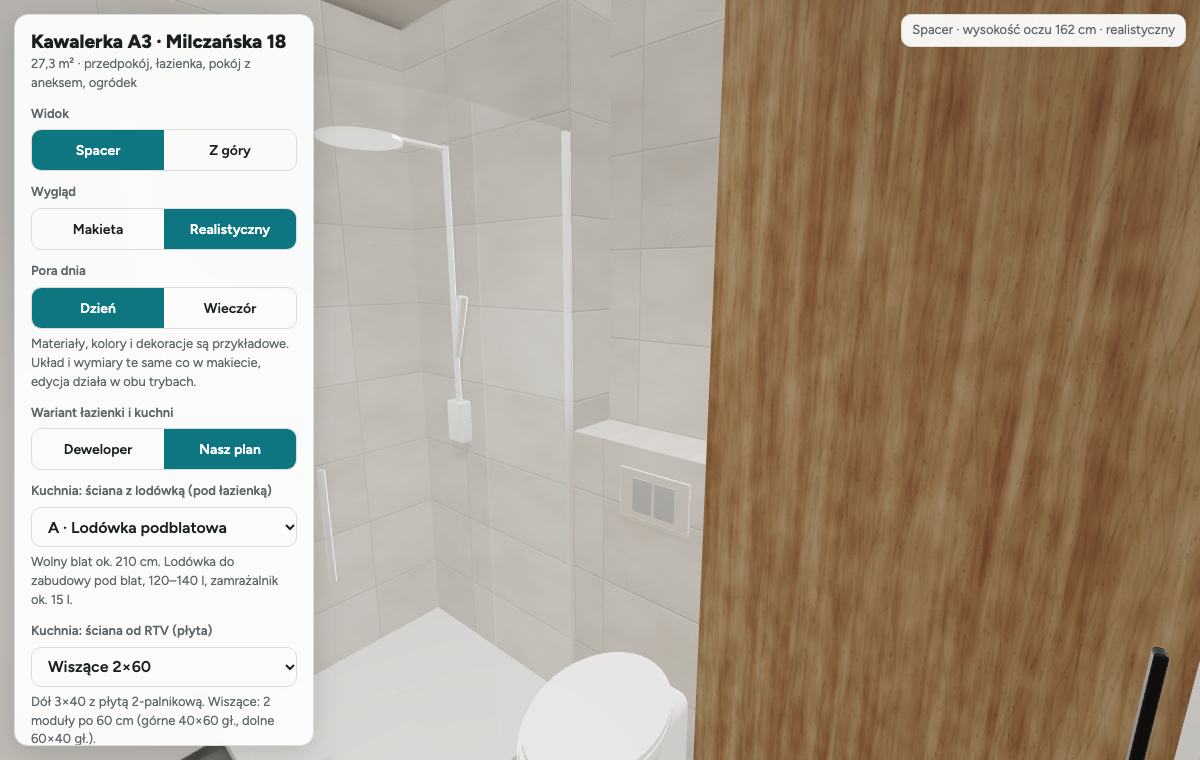
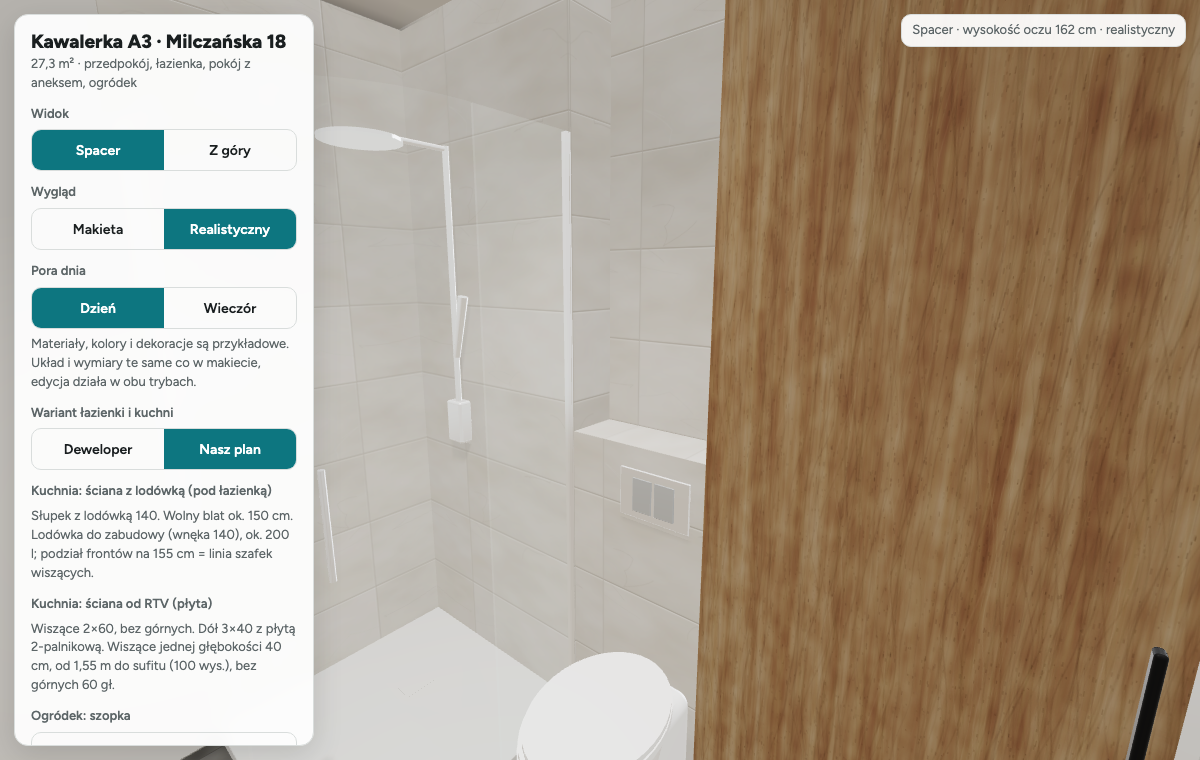
Wylaczenie zbędnych opcji

Changed region(s): [[0.0308, 0.6658, 0.2467, 0.9987]]

diff --git a/index.html b/index.html
@@ -176,23 +176,13 @@ const UPX=(id,z0,z1,mods,o,top=true)=>{if(top){R(id+'g','Szafki wiszące górne 
  if(top)R(id+'d','Szafki wiszące dolne (60 wys., 40 gł.)','upper',3.85,4.25,z0,z1,.6,COL.oak,'nasz');
  else R(id+'d','Szafki wiszące do sufitu (100 wys., 40 gł.)','upper',3.85,4.25,z0,z1,H-UY,COL.oak,'nasz'); // jedna głębokość 40 od 1,55 do sufitu
  RX(Object.assign({y:UY,mods},o))};
-// a) lodówka podblatowa: jeden ciąg blatu pod łazienką
-R('nBlatP','Blat: lodówka podblatowa + zmywarka + zlew','sinkc',1.9,3.65,2.07,2.67,.9,COL.oak,'nasz');RX({fr:'pod',mods:[.6,.6,.55],sink:[1.25,1.7]});
-UPZ('nGP',1.9,3.65,[.6,.6,.55],{fr:'pod'});
-// b) lodówka wolnostojąca 60×145
-R('nLod','Lodówka wolnostojąca 60×145','fridge',1.9,2.5,2.07,2.69,1.45,COL.white,'nasz');RX({fr:'wolna'});
-R('nBlat1','Blat: zmywarka + zlew','sinkc',2.52,3.65,2.07,2.67,.9,COL.oak,'nasz');RX({fr:'wolna',mods:[.6,.53]});
-UPZ('nGW',1.9,3.65,[.62,.6,.53],{fr:'wolna'});
-// c) słupek od wejścia: lodówka do zabudowy (wnęka 140) + szafka do sufitu; podział frontów na wys. UY = linia dołu szafek wiszących
+// ściana z lodówką (decyzja 22.11.2026: słupek; wersje podblatowa i wolnostojąca usunięte): słupek od wejścia: lodówka do zabudowy (wnęka 140) + szafka do sufitu; podział frontów na wys. UY = linia dołu szafek wiszących
 R('nSlup','Słupek: lodówka do zabudowy 140 + szafka','slupek',1.9,2.5,2.07,2.67,H,COL.oak,'nasz');RX({fr:'slupek',split:[.1,UY,UT]}); // podziały w liniach szafek wiszących
 R('nBlatS','Blat: zmywarka + zlew','sinkc',2.5,3.65,2.07,2.67,.9,COL.oak,'nasz');RX({fr:'slupek',mods:[.6,.55],sink:[.65,1.1]});
 UPZ('nGS',2.5,3.65,[.6,.55],{fr:'slupek'});
-// ściana od RTV: dolne 3 moduły po 40 cm z płytą 2-palnikową (wspólne), wiszące wg wersji
+// ściana od RTV: dolne 3 moduły po 40 cm z płytą 2-palnikową, wiszące 2×60 bez górnych (decyzja 22.11.2026)
 R('nBlat2','Blat z płytą 2-palnikową (3×40)','cook',3.65,4.25,2.76,3.96,.9,COL.oak,'nasz');RX({hob:2,mods:[.4,.4,.4]});
-UPX('nR60',2.76,3.96,[.6,.6],{rtv:'w2x60'});
-UPX('nR40',2.76,3.96,[.4,.4,.4],{rtv:'w3x40'});
 UPX('nR60b',2.76,3.96,[.6,.6],{rtv:'w2x60b'},false); // bez górnych 40×60 – szafki 40 gł. od 1,55 do sufitu
-UPX('nR40b',2.76,3.96,[.4,.4,.4],{rtv:'w3x40b'},false);
 // pokój
 R('stol','Stół','table',0,.8,2.83,3.63,.75,COL.wood);
 R('kr1','Krzesło','chair',.19,.59,2.35,2.79,.85,COL.dark);
@@ -238,14 +228,9 @@ R('smPolkaS','Półka nad wejściem przy płocie (gł. 25)','rack',4.04,4.29,7.8
 // wersje kuchni „Nasz plan” – osobno dla każdej ściany (listy rozwijane).
 // Nowa wersja = nowy wpis + meble z polem fr:'<id>' (ściana z lodówką) albo rtv:'<id>' (ściana od RTV)
 const FRIDGE_WALL=[
- {id:'pod',name:'A · Lodówka podblatowa',desc:'Wolny blat ok. 210 cm. Lodówka do zabudowy pod blat, 120–140 l, zamrażalnik ok. 15 l.'},
- {id:'wolna',name:'B · Wolnostojąca 60×145',desc:'Wolny blat ok. 150 cm. Ok. 200 l. Biała bryła przerywa linię frontów.'},
- {id:'slupek',name:'C · Słupek z lodówką 140',desc:'Wolny blat ok. 150 cm. Lodówka do zabudowy (wnęka 140), ok. 200 l; podział frontów na 155 cm = linia szafek wiszących.'}];
+ {id:'slupek',name:'Słupek z lodówką 140',desc:'Wolny blat ok. 150 cm. Lodówka do zabudowy (wnęka 140), ok. 200 l; podział frontów na 155 cm = linia szafek wiszących.'}];
 const RTV_WALL=[
- {id:'w2x60',name:'Wiszące 2×60',desc:'Dół 3×40 z płytą 2-palnikową. Wiszące: 2 moduły po 60 cm (górne 40×60 gł., dolne 60×40 gł.).'},
- {id:'w3x40',name:'Wiszące 3×40',desc:'Dół 3×40 z płytą 2-palnikową. Wiszące: 3 moduły po 40 cm, fronty w osi z dolnymi szafkami.'},
- {id:'w2x60b',name:'Wiszące 2×60, bez górnych',desc:'Dół 3×40 z płytą 2-palnikową. Wiszące jednej głębokości 40 cm, od 1,55 m do sufitu (100 wys.), bez górnych 60 gł.'},
- {id:'w3x40b',name:'Wiszące 3×40, bez górnych',desc:'Dół 3×40 z płytą 2-palnikową. Wiszące jednej głębokości 40 cm, od 1,55 m do sufitu (100 wys.), 3 moduły po 40 cm.'}];
+ {id:'w2x60b',name:'Wiszące 2×60, bez górnych',desc:'Dół 3×40 z płytą 2-palnikową. Wiszące jednej głębokości 40 cm, od 1,55 m do sufitu (100 wys.), bez górnych 60 gł.'}];
 const SHEDS=[
  {id:'srodek',name:'B · Wejście na środku, drzwi przesuwne',desc:'Drzwi przesuwne 80 cm pośrodku, wchodzisz do środka (przejście 80×73). Po prawej koła pod blatem 73×72 i półki, po lewej regał 35 cm i narzędzia przy płocie.'},
  {id:'boki',name:'A · Dwoje drzwi dwuskrzydłowych',desc:'Bez wchodzenia, wszystko od frontu. Przy budynku narzędzia + regał 70×60, od ogrodu blat 118×73 z kołami pod spodem.'}];
@@ -256,7 +241,7 @@ const shedSel=document.getElementById('shed');shedSel.innerHTML=SHEDS.map(k=>`<o
 const rtvSel=document.getElementById('rtv');rtvSel.innerHTML=RTV_WALL.map(k=>`<option value="${k.id}">${k.name}</option>`).join('');
 addSel.innerHTML+=CATALOG.map((c,i)=>`<option value="${i}">${c[0]}</option>`).join('');
 
-let state={bath:'nasz',fridge:'pod',rtv:'w2x60',shed:'srodek',items:JSON.parse(JSON.stringify(DEFAULT))};
+let state={bath:'nasz',fridge:'slupek',rtv:'w2x60b',shed:'srodek',items:JSON.parse(JSON.stringify(DEFAULT))};
 const KEY='a3-milczanska-uklad-v10';
 try{let s=JSON.parse(localStorage.getItem(KEY));
  if(!s){s=JSON.parse(localStorage.getItem('a3-milczanska-uklad-v9'))||JSON.parse(localStorage.getItem('a3-milczanska-uklad-v8'))||JSON.parse(localStorage.getItem('a3-milczanska-uklad-v7'))||JSON.parse(localStorage.getItem('a3-milczanska-uklad-v6'))||JSON.parse(localStorage.getItem('a3-milczanska-uklad-v5'))||JSON.parse(localStorage.getItem('a3-milczanska-uklad-v4'))||JSON.parse(localStorage.getItem('a3-milczanska-uklad-v3'))||JSON.parse(localStorage.getItem('a3-milczanska-uklad-v2'));
@@ -268,7 +253,8 @@ try{let s=JSON.parse(localStorage.getItem(KEY));
   if(s&&s.items)s.items=s.items.filter(it=>it.v!=='nasz').concat(JSON.parse(JSON.stringify(DEFAULT.filter(d=>d.v==='nasz'))))}
  if(s&&s.items)s.items=s.items.filter(it=>!/^sz(opa|Kola|Blat|Polka|Regal|Narz)$/.test(it.id)); // pierwsza wersja szopki (160×200 po prawej) – zastąpiona
  if(s&&s.items){DEFAULT.forEach(d=>{if(!s.items.some(i=>i.id===d.id))s.items.push(JSON.parse(JSON.stringify(d)))}); // nowe meble z DEFAULT (np. nowa wersja kuchni)
-  if(!FRIDGE_WALL.some(k=>k.id===s.fridge))s.fridge='pod';if(!RTV_WALL.some(k=>k.id===s.rtv))s.rtv='w2x60';if(!SHEDS.some(k=>k.id===s.shed))s.shed='srodek';
+  if(!FRIDGE_WALL.some(k=>k.id===s.fridge))s.fridge='slupek';if(!RTV_WALL.some(k=>k.id===s.rtv))s.rtv='w2x60b';if(!SHEDS.some(k=>k.id===s.shed))s.shed='srodek';
+  s.items=s.items.filter(it=>(!it.fr||FRIDGE_WALL.some(k=>k.id===it.fr))&&(!it.rtv||RTV_WALL.some(k=>k.id===it.rtv))); // usunięte wersje kuchni
   s.items.forEach(it=>{const d=DEFAULT.find(x=>x.id===it.id);if(d&&d.shed)it.shed=d.shed});state=s}}catch(e){}
 const save=()=>{try{localStorage.setItem(KEY,JSON.stringify(state))}catch(e){}};
 
@@ -337,7 +323,7 @@ const edgeMat=new THREE.LineBasicMaterial({color:0x1c1916});
 const glassEdgeMat=new THREE.LineBasicMaterial({color:0x6d7f86});
 function addEdges(g){const ms=[];g.traverse(o=>{if(o.isMesh)ms.push(o)});ms.forEach(o=>{
  const l=new THREE.LineSegments(new THREE.EdgesGeometry(o.geometry,30),o.material===mat.glass?glassEdgeMat:edgeMat);l.raycast=()=>{};o.add(l)})}
-const visible=it=>!it.hidden&&(it.v==='all'||it.v===state.bath)&&(!it.fr||it.fr===(state.fridge||'pod'))&&(!it.rtv||it.rtv===(state.rtv||'w2x60'))&&(!it.shed||it.shed===(state.shed||'srodek'));
+const visible=it=>!it.hidden&&(it.v==='all'||it.v===state.bath)&&(!it.fr||it.fr===(state.fridge||'slupek'))&&(!it.rtv||it.rtv===(state.rtv||'w2x60b'))&&(!it.shed||it.shed===(state.shed||'srodek'));
 function rebuild(){
  while(furn.children.length){const c=furn.children[0];furn.remove(c);c.traverse(o=>{if(o.geometry)o.geometry.dispose();if(typeof o.getRenderTarget==='function')o.getRenderTarget().dispose()})}
  const real=style==='real'&&REAL;
@@ -880,8 +866,8 @@ function setMode(m){mode=m;document.querySelectorAll('#mode button').forEach(b=>
 document.querySelectorAll('#mode button').forEach(b=>b.onclick=()=>setMode(b.dataset.m));
 document.querySelectorAll('#bath button').forEach(b=>b.onclick=()=>{state.bath=b.dataset.v;markBath();if(selId&&!visible(selItem()))selId=null;rebuild()});
 function markBath(){document.querySelectorAll('#bath button').forEach(b=>b.classList.toggle('on',b.dataset.v===state.bath));
- frSel.value=state.fridge||'pod';const k=FRIDGE_WALL.find(k=>k.id===frSel.value);document.getElementById('frDesc').textContent=k?k.desc:'';
- rtvSel.value=state.rtv||'w2x60';const r=RTV_WALL.find(k=>k.id===rtvSel.value);document.getElementById('rtvDesc').textContent=r?r.desc:'';
+ frSel.value=state.fridge||'slupek';const k=FRIDGE_WALL.find(k=>k.id===frSel.value);frSel.hidden=FRIDGE_WALL.length<2;document.getElementById('frDesc').textContent=k?(frSel.hidden?k.name+'. ':'')+k.desc:'';
+ rtvSel.value=state.rtv||'w2x60b';const r=RTV_WALL.find(k=>k.id===rtvSel.value);rtvSel.hidden=RTV_WALL.length<2;document.getElementById('rtvDesc').textContent=r?(rtvSel.hidden?r.name+'. ':'')+r.desc:'';
  shedSel.value=state.shed||'srodek';const sd=SHEDS.find(k=>k.id===shedSel.value);document.getElementById('shedDesc').textContent=sd?sd.desc:'';
  document.getElementById('frBox').hidden=state.bath!=='nasz'}
 frSel.onchange=()=>{state.fridge=frSel.value;markBath();if(selId&&!visible(selItem()))selId=null;rebuild()};
@@ -900,8 +886,8 @@ document.getElementById('sRot').onclick=()=>{const it=selItem();if(it){it.rot=(i
 document.getElementById('sDel').onclick=()=>{const it=selItem();if(it){it.hidden=true;selId=null;rebuild()}};
 addSel.onchange=()=>{const c=CATALOG[addSel.value];if(!c)return;const id='u'+Date.now();
  state.items.push({id,name:c[0],kind:c[1],w:c[2],d:c[3],h:c[4],color:c[5],x:2.1,z:4.4,rot:0,v:'all'});selId=id;addSel.value='';setMode('top');rebuild()};
-document.getElementById('reset').onclick=()=>{state={bath:'nasz',fridge:'pod',rtv:'w2x60',shed:'srodek',items:JSON.parse(JSON.stringify(DEFAULT))};selId=null;markBath();rebuild()};
-document.getElementById('copy').onclick=()=>{const txt=JSON.stringify({wariant:state.bath,kuchnia:state.bath==='nasz'?{sciana_lodowka:(FRIDGE_WALL.find(k=>k.id===(state.fridge||'pod'))||{}).name,sciana_rtv:(RTV_WALL.find(k=>k.id===(state.rtv||'w2x60'))||{}).name}:undefined,szopka:(SHEDS.find(k=>k.id===(state.shed||'srodek'))||{}).name,meble:state.items.filter(visible).map(i=>({nazwa:i.name,x_cm:Math.round(i.x*100),z_cm:Math.round(i.z*100),szer:Math.round(i.w*100),gleb:Math.round(i.d*100),wys:Math.round(i.h*100),obrot:i.rot}))});
+document.getElementById('reset').onclick=()=>{state={bath:'nasz',fridge:'slupek',rtv:'w2x60b',shed:'srodek',items:JSON.parse(JSON.stringify(DEFAULT))};selId=null;markBath();rebuild()};
+document.getElementById('copy').onclick=()=>{const txt=JSON.stringify({wariant:state.bath,kuchnia:state.bath==='nasz'?{sciana_lodowka:(FRIDGE_WALL.find(k=>k.id===(state.fridge||'slupek'))||{}).name,sciana_rtv:(RTV_WALL.find(k=>k.id===(state.rtv||'w2x60b'))||{}).name}:undefined,szopka:(SHEDS.find(k=>k.id===(state.shed||'srodek'))||{}).name,meble:state.items.filter(visible).map(i=>({nazwa:i.name,x_cm:Math.round(i.x*100),z_cm:Math.round(i.z*100),szer:Math.round(i.w*100),gleb:Math.round(i.d*100),wys:Math.round(i.h*100),obrot:i.rot}))});
  const box=document.getElementById('copybox');box.value=txt;
  navigator.clipboard.writeText(txt).then(()=>{hud.textContent='Układ skopiowany – wklej go w czacie'}).catch(()=>{box.style.display='block';box.select()})};
 

diff --git a/tools/screenshot.py b/tools/screenshot.py
@@ -1,7 +1,7 @@
 """Zrzuty ekranu modelu do sprawdzenia zmian.
 Użycie: pip install playwright && playwright install chromium
         python3 tools/screenshot.py
-Wynik: shots/spacer.png, shots/z_gory.png, shots/z_gory_slupek.png, shots/z_gory_rtv_bez_gornych.png, shots/z_gory_deweloper.png, shots/szopka.png
+Wynik: shots/spacer.png, shots/z_gory.png, shots/z_gory_deweloper.png, shots/szopka.png
        oraz tryb realistyczny: shots/real_*.png (python3 tools/screenshot.py real – tylko te)
 """
 import asyncio, pathlib, sys
@@ -50,11 +50,6 @@ async def real(pg):
     await pg.wait_for_timeout(900)
     await pg.screenshot(path=OUT / "real_szopka_wariant_a.png")
     await pg.select_option("#shed", "srodek")
-    await pg.evaluate("A3.view(1.4,4.9,-0.75,-.12)")
-    await pg.select_option("#fridge", "slupek")
-    await pg.wait_for_timeout(900)
-    await pg.screenshot(path=OUT / "real_kuchnia_slupek.png")
-    await pg.select_option("#fridge", "pod")
     await pg.click("#bath button[data-v=dev]")
     await pg.evaluate("A3.view(2.2,.5,-2.45,-.2)")
     await pg.wait_for_timeout(900)
@@ -75,14 +70,6 @@ async def mock(pg):
     await pg.click("#mode button[data-m=top]")
     await pg.wait_for_timeout(800)
     await pg.screenshot(path=OUT / "z_gory.png")
-    await pg.select_option("#fridge", "slupek")
-    await pg.wait_for_timeout(800)
-    await pg.screenshot(path=OUT / "z_gory_slupek.png")
-    await pg.select_option("#fridge", "pod")
-    await pg.select_option("#rtv", "w2x60b")
-    await pg.wait_for_timeout(800)
-    await pg.screenshot(path=OUT / "z_gory_rtv_bez_gornych.png")
-    await pg.select_option("#rtv", "w2x60")
     await pg.click("#bath button[data-v=dev]")
     await pg.wait_for_timeout(800)
     await pg.screenshot(path=OUT / "z_gory_deweloper.png")

diff --git a/CLAUDE.md b/CLAUDE.md
@@ -86,12 +86,11 @@ na etapie koncepcji, przed decyzjami instalacyjnymi. Interfejs i komentarze po p
   grzejnik drabinkowy 50×125 na ścianie z umywalką, 115 cm nad podłogą, 16 cm od prawej ściany (x 3,59–4,09; pole `y` = wys. dolnej krawędzi).
   Kielich kanalizacji 110 mm jest w narożniku przy szachcie, a rura do WC idzie w zabudowie ze spadkiem ≥2%.
 - Kuchnia: przełącznik „Wariant łazienki i kuchni” przełącza też kuchnię. „Deweloper” = układ z karty (L: lodówka w zabudowie + zmywarka + zlew pod łazienką, płyta wzdłuż prawej ściany).
-  „Nasz plan” (22.11.2026): dwie listy rozwijane, osobno dla każdej ściany:
-  „ściana z lodówką” (tablica `FRIDGE_WALL`, pole mebla `fr`, `state.fridge`) i „ściana od RTV” (tablica `RTV_WALL`, pole `rtv`, `state.rtv`: `w2x60` | `w3x40` | `w2x60b` | `w3x40b` – „b” = bez górnych 60 gł.: wiszące jednej głębokości 40 cm od 1,55 do sufitu; `UPX(...,top=false)`).
-  Nowa wersja = wpis {id,name,desc} w odpowiedniej tablicy + meble z `fr:'<id>'` / `rtv:'<id>'` (brakujące meble z `DEFAULT` dopisują się do zapisanego stanu przy wczytaniu).
-  `pod` = jeden blat pod łazienką x 1,90–3,65 (lodówka podblatowa 60 + zmywarka 60 + zlew 55), `wolna` = lodówka wolnostojąca 60×145 + blat zmywarka/zlew x 2,52–3,65,
-  `slupek` = słupek do sufitu x 1,90–2,50 (kind `slupek`, pole `split` = wysokości poziomych podziałów: cokół 10 cm, lodówka do zabudowy wnęka 140, podziały na 1,55 i 2,15 = linie szafek wiszących) + blat zmywarka/zlew x 2,50–3,65;
-  przy ścianie od RTV dolne 3×40 cm (z 2,76–3,96) z płytą 2-palnikową 30×52, wiszące nad nimi 2×60 albo 3×40 cm.
+  „Nasz plan” (decyzja 22.11.2026, pozostałe wersje usunięte): ściana z lodówką = `slupek`, ściana od RTV = `w2x60b`.
+  Mechanizm wersji zostaje: tablice `FRIDGE_WALL` (pole mebla `fr`, `state.fridge`) i `RTV_WALL` (pole `rtv`, `state.rtv`); przy jednej wersji lista jest ukryta, widać nazwę + opis.
+  Nowa wersja = wpis {id,name,desc} w tablicy + meble z `fr:'<id>'` / `rtv:'<id>'` (brakujące meble z `DEFAULT` dopisują się przy wczytaniu; meble wersji spoza tablic są usuwane z zapisanego stanu).
+  `slupek` = słupek do sufitu x 1,90–2,50 (kind `slupek`, pole `split` = wysokości poziomych podziałów: cokół 10 cm, lodówka do zabudowy wnęka 140, podziały na 1,55 i 2,15 = linie szafek wiszących) + blat zmywarka/zlew x 2,50–3,65, nad nim para szafek `UPZ`;
+  przy ścianie od RTV dolne 3×40 cm (z 2,76–3,96) z płytą 2-palnikową 30×52, nad nimi wiszące 2×60 jednej głębokości 40 cm od 1,55 do sufitu (`UPX(...,top=false)`, bez górnych 60 gł.).
   Szafki wiszące (obie ściany) = para mebli: górne 40 wys. × 60 gł. pod sufitem (dół `UT`=H−0,40) + dolne 60 wys. × 40 gł. bez przerwy (dół `UY`=H−1 = 1,55 m);
   helpery `UPZ` (ściana pod łazienką) i `UPX` (ściana od RTV).
   Linie podziału frontów z pola `mods` (szerokości modułów w m), pozycja zlewu z `sink:[x0,x1]`.
